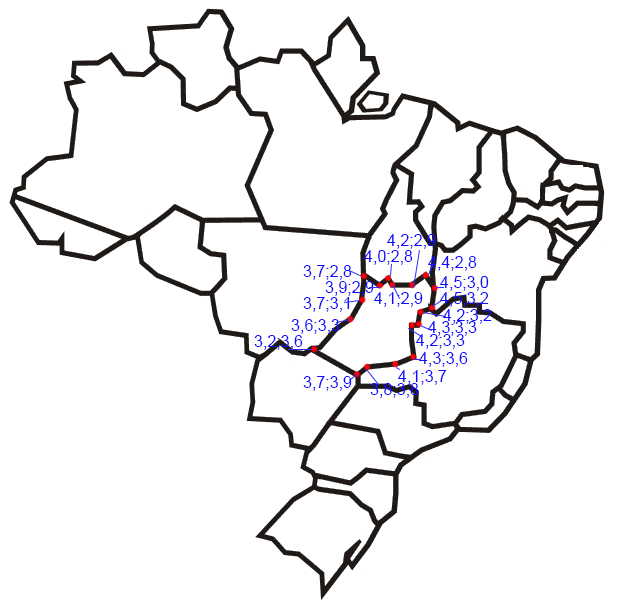
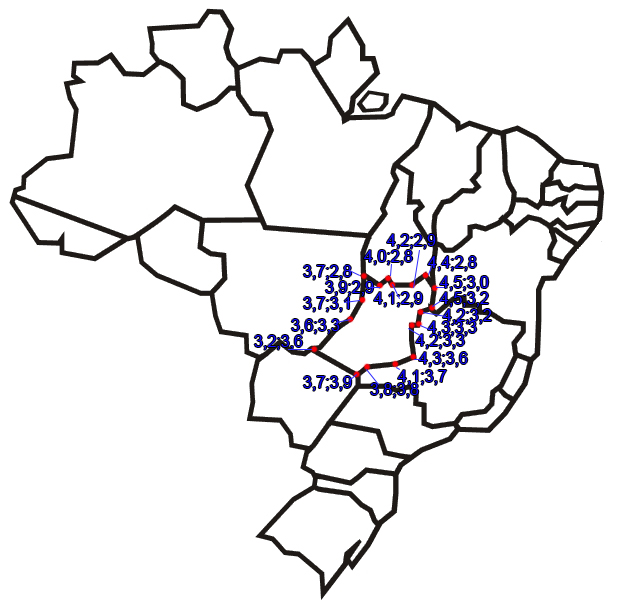
Create Mato Grosso

Changed region(s): [[0.3908, 0.3744, 0.7816, 0.6552]]

diff --git a/game.html b/game.html
@@ -216,6 +216,34 @@ style="border:1px solid #000000;">
         ctx.stroke();
     }
 
+    //Mato Grosso
+    function drawMT(){
+        ctx.beginPath();
+        ctx.moveTo(3.2*100,3.6*100);
+        ctx.lineTo(3.6*100,3.3*100);
+        ctx.lineTo(3.7*100,3.1*100);
+        ctx.lineTo(3.7*100,2.8*100);
+        ctx.lineTo(3.8*100,2.4*100);
+        ctx.lineTo(2.7*100,2.3*100);
+        ctx.lineTo(2.7*100,2.2*100);
+        ctx.lineTo(2.1*100,2.2*100);
+        ctx.lineTo(2.0*100,2.5*100);
+        ctx.lineTo(2.3*100,2.6*100);
+        ctx.lineTo(2.3*100,2.8*100);
+        ctx.lineTo(2.2*100,3.0*100);
+        ctx.lineTo(2.2*100,3.4*100);
+        ctx.lineTo(2.5*100,3.4*100);
+        ctx.lineTo(2.7*100,3.7*100);
+        ctx.lineTo(2.9*100,3.5*100);
+        ctx.lineTo(3.1*100,3.6*100);
+        ctx.lineTo(3.2*100,3.6*100);
+        ctx.fillStyle = "#FFD500";
+        ctx.fill();
+        ctx.strokeStyle = "#003300";
+        ctx.lineWidth = 3;
+        ctx.stroke();
+    }
+
 
     drawSP();
     drawRS();
@@ -226,6 +254,7 @@ style="border:1px solid #000000;">
     drawES();
     drawMG();
     drawGO();
+    drawMT();
 	
     window.addEventListener('keydown', KeyDown, true);
     document.getElementById("myCanvas").addEventListener('click', KeyDown, true);
